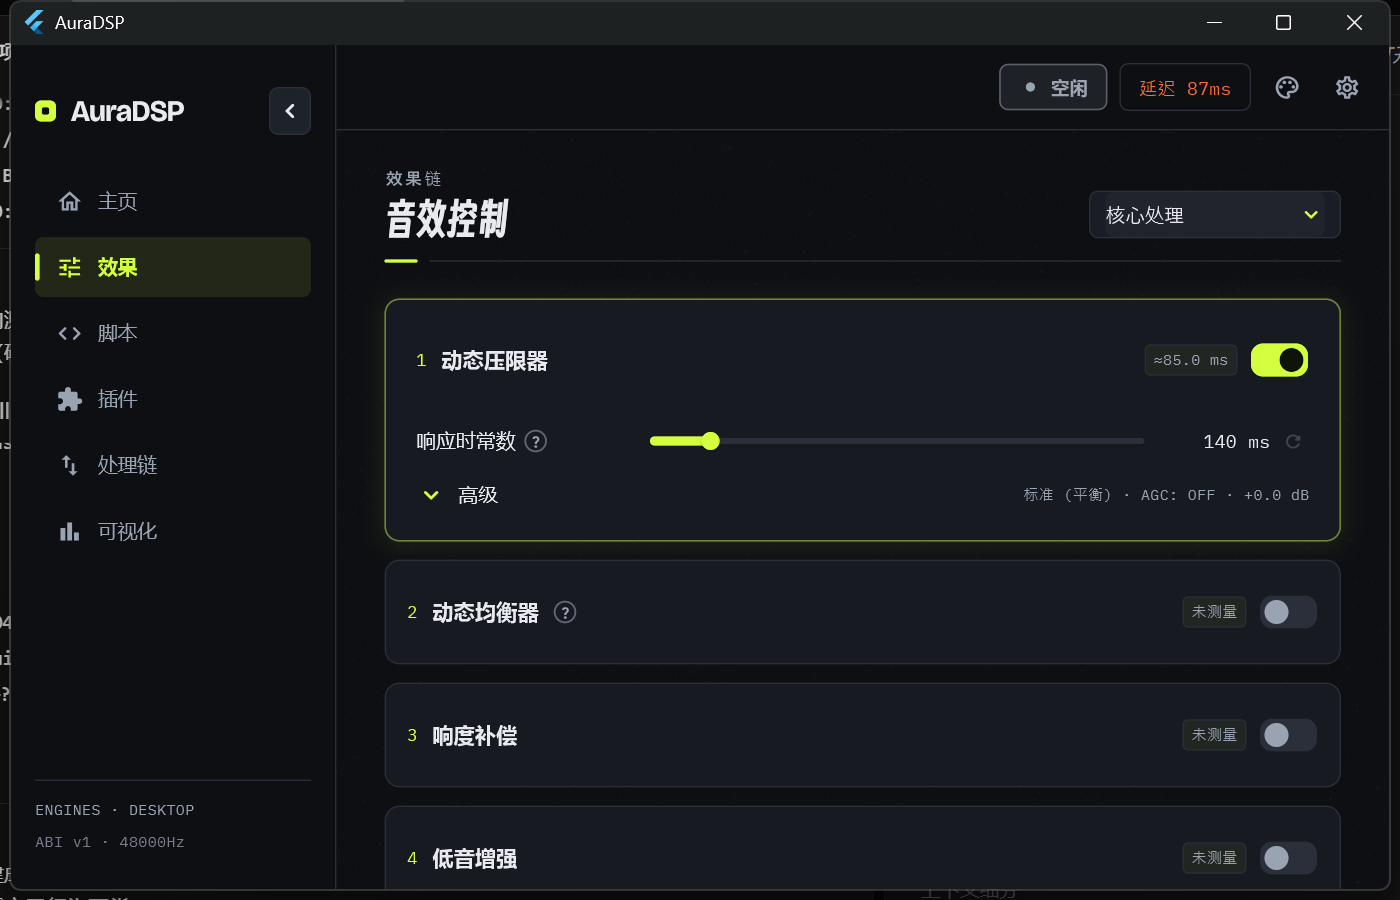
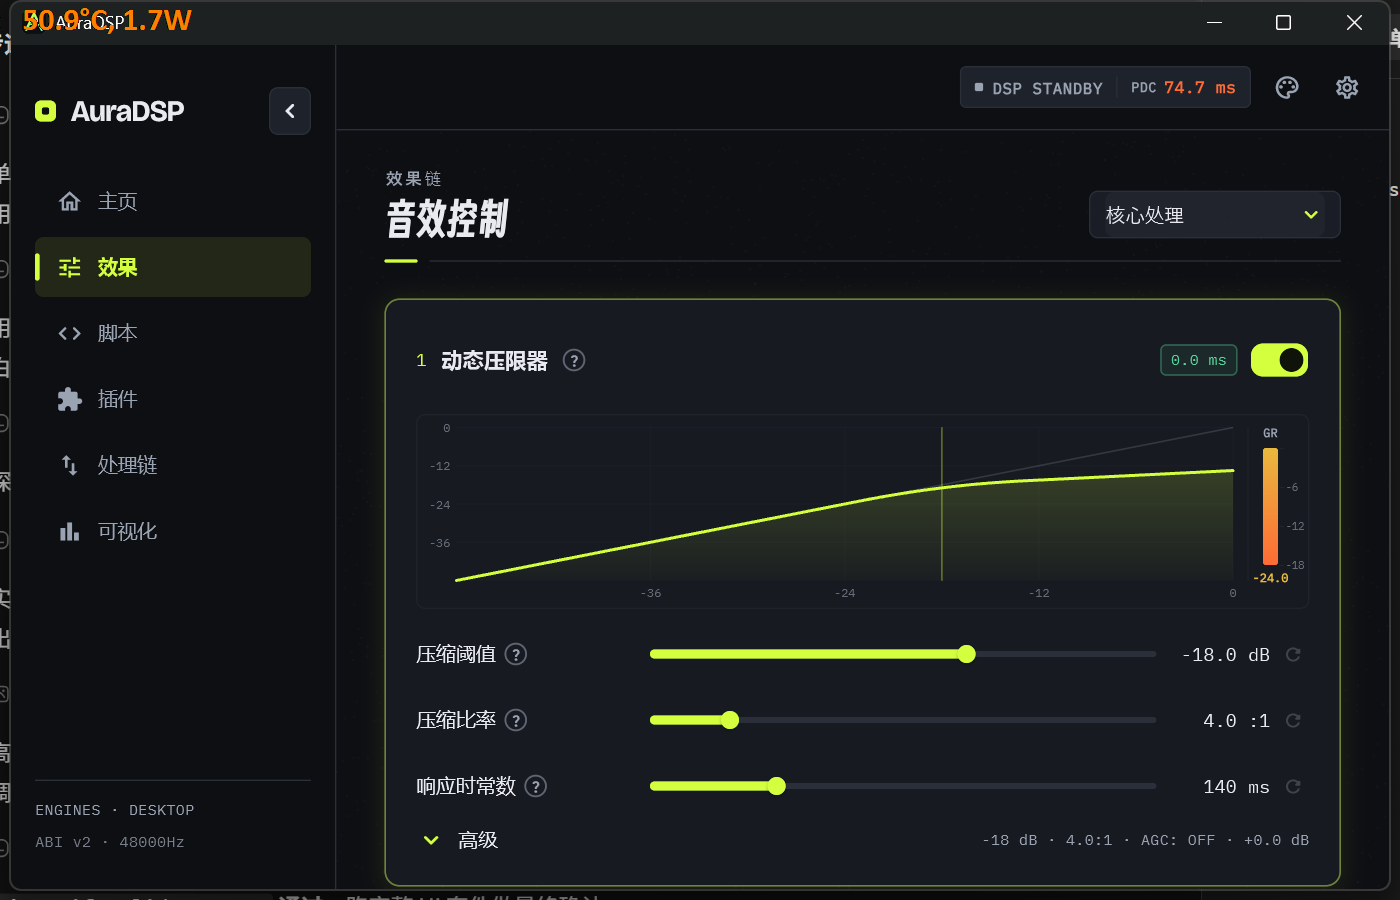
docs: 补记发包台账并更新 UI 用例留档截图

diff --git a/.ai/memory/2026-11-09.md b/.ai/memory/2026-11-09.md
@@ -46,3 +46,81 @@
   补丁编号 185 处全过。
 - **遗留**：Windows 发行包与 Linux 四件套均为 `331ee22` 时代产物，
   引擎已新增 `dsp_mc_liveprog`、参数面新增 `liveprogmc.*`，需重跑构建。
+
+## 发包：全量测试 + 重建发行包（2026-11-09 上午）
+
+### 一、构建链路的四个坑（都在 Windows 侧，非产品缺陷）
+
+1. **环境变量大小写重复键**。宿主（沙箱/CI 包装器）会让原生环境块里
+   `PATH`/`path`/`Path` 并存、每个变量还各存两份（实测 404 项 vs 干净 224 项）。
+   .NET Framework 的 `ProcessStartInfo.EnvironmentVariables` 是大小写敏感的
+   Hashtable，第二个 "path" 撞键抛 `ArgumentException('path')`，
+   发生在 MSBuild 的 `ToolTask.GetProcessStartInfo` 里 → **CL.exe 根本没被
+   拉起**，编译目标既不产出也不让上层脚本失败。新增
+   `tools/bin/win_env_sanitize.py`：读原生块（ctypes GetEnvironmentStringsW）
+   按大小写合并（PATH 取并集、其余留首次值），再用干净环境启动子进程；
+   顺带支持 PATHEXT 解析与 `.bat` 垫片转发（`flutter` 是 .bat，
+   subprocess 直接 spawn 会 FileNotFoundError）。
+2. **MSBuild 节点复用**。脏环境下启动的 worker 节点存活约 15 分钟，
+   之后即使环境已修好也会复用这些节点 → cmake **立即 exit=1 且无任何输出**，
+   表现为"构建无报错地中断、日志为空"。归一化器顺带设
+   `MSBUILDDISABLENODEREUSE=1`。
+3. **构建脚本只查文件存在就报"就绪"**。这是最坏的一层：cmake exit=1 被
+   忽略，旧产物（两天前的 DLL）被当成本次产物发出去。
+   `build_windows.ps1` 改为 `Invoke-Clean` 统一检查退出码，非零即中止；
+   另在每条外部命令前清理**本仓库构建树相关**的残留 MSBuild/cmake 进程
+   （按命令行含仓库路径判定，不误伤 VS）。
+4. **并行度与超时**。VS 生成器默认 /m:32（32 核），C++ 大 TU 同时编译
+   内存峰值可超 8GB → 进程被直接杀掉。限到 8 并发（用 `-m:8` 而非
+   `/m:8`：后者从 Git-Bash 调用会被 MSYS 路径转换吃掉斜杠，MSBuild 报 MSB1008）。
+   另注意工具后台任务超时上限是 600000ms，传更大值会被静默截断。
+
+### 二、门禁缺失的前置产物（13 项 FAIL 的真因）
+
+`test/runner.py --smoke` 有 13 个用例依赖一批**独立的小型测试程序**
+（test_plugin_chain / test_host_quarantine / test_dll_dirs / rt_drain_test /
+vaio_pump_wait_test / vm_detect / vm_pump_test / vm_parallel_test /
+apo_inspect / silence_gate_test / AuraApo）。这些目标不在发行目标集里，
+标准构建不产出 → **干净构建后跑门禁必然 FAIL 13 项**，与代码质量无关。
+已把 11 个测试目标并入 `build_windows.ps1` 的 [3b/6] 步并校验产物存在。
+
+### 三、三处 smoke 语义漂移（非回归，已用同步前引擎 A/B 排除）
+
+用**同步前的发行引擎**（c7b5e813）复跑，失败项完全一致 → 排除回归。
+真因都是「产品语义变了、用例没跟上」：
+- `g_pluginGroupMask` 出厂默认是 `0x03`（255e61f「默认只开 A1/A2」），
+  用例仍断言 `0xFF`。
+- `vb_set_param_str` 返回**在用路数**（源码注释明说"nEng 是版型槽数，
+  拿它比较会让镜像永远记不进去"），用例却拿槽位数（handles=8）比较。
+- 插件组补挂只对**有引擎实例的组**生效（`BackfillGroupsForMask` 要求
+  `PluginEngineAt(g)`）；本机只开通 2 条路由（routeState=[2,2,0,…]），
+  用例却要求 8 个组全部就绪。已改为按在线路由组断言。
+- `smoke_vm_protect` 需要**真实音频流动**：保护观测值由 RT 回调消费，
+  桥整体空闲（hotGrp=-1）时注入永远不被读取 → 守卫无从触发。
+  已加前置判定记 SKIP 而非 FAIL。
+
+### 四、UI 自动化：前台锁 + 卡片改版
+
+- **首次点击被 IDE 吃掉**。后台进程调 `SetForegroundWindow` 会被「前台锁」
+  拒绝（函数返回 FALSE 而不报错），于是应用的第一次点击落到 IDE 上——
+  UI 用例表现为"点空也不报错、断言拿到 0 像素差异"，最难查的一类假失败。
+  `ui_test_kit.ensure_foreground` 改用 AttachThreadInput 借前台线程输入队列
+  完成置前，并用 GetForegroundWindow 复核。**修完这一条，两个原本失败的
+  UI 用例直接转绿**——它们的失败根因根本不是坐标。
+- 卡片改版后锚点漂移（实测 1400x900）：动态压限器开关仍在 (1279,350)✓，
+  但「高级」折叠头挪到卡片底部 → 需向下滚 3 格进视口，此时稳定在 (460,538)；
+  主滑块「响应时常数」在 y 780..791（旧值 415..465 落在空白区）；
+  高级区**不再有「输出增益门」滑块**，改为「分频中心频率」(y≈805)。
+  另：卡片内曲线图与延迟读数是**实时动画**，全窗像素差分恒为几千像素
+  （会掩盖抽屉没开），必须只比静态带。
+
+### 五、最终结果
+
+- Windows 引擎单测：**PASS 140 / SKIP 7 / FAIL 0**（100%）
+- Linux 引擎单测（vm-linux）：**PASS 20 / SKIP 127 / FAIL 0**
+- `flutter analyze`：**No issues found!**
+- UI 自动化：**7/7 PASS**
+- 发行包：Setup 160MB（payload sha256 0c5707a5…，结构自检全过）/
+  便携 zip 130.5MB / 驱动 zip 0.1MB，SHA256SUMS.txt 3 条
+- Linux 四件套（vm-linux）：deb 14.3MB / driver-deb / AppImage 16.8MB /
+  tar.gz 17.2MB，ELF 依赖 0 缺失

diff --git a/tools/README.md b/tools/README.md
@@ -20,6 +20,7 @@
 | `bin/run_tests.py` | 统一测试执行入口桥接（转发 `test/runner.py`） |
 | `bin/push_via_api.py` | GitHub REST API 离线/受限网络推送兜底（自行组装 blob/tree/commit，sha 逐字一致） |
 | `bin/fetch_via_api.py` | `push_via_api.py` 的对偶：`github.com:443` 不通、`git fetch` 挂死时，用 Git Data API 把远端提交**逐字重建**进本地对象库（只下载真正新增的 blob/tree，重建后断言 SHA 与远端一致，对不上即中止；时区未知时按候选表试算并校验） |
+| `bin/win_env_sanitize.py` | Windows 环境变量大小写重复键归一化器：宿主（沙箱/CI 包装器）会让 `PATH`/`path`/`Path` 并存、每个变量存两份，而 .NET Framework 的 `ProcessStartInfo.EnvironmentVariables` 大小写敏感 → 第二个 "path" 撞键抛 `ArgumentException('path')`，MSBuild 的 CL.exe 根本没被拉起、编译静默产出陈旧二进制。本脚本读原生块按大小写合并（PATH 取并集、其余留首次值）后启动子进程；顺带支持 PATHEXT 解析与 `.bat` 垫片转发（`flutter` 是 .bat）、`MSBUILDDISABLENODEREUSE=1`、编译日志原始字节直写 |
 | `bin/verify_dll_copies.py` | DLL 三处同哈希单向校验（仅校验；**分发**已改由 `sync_artifacts.ps1` 负责） |
 | `windows/sync_artifacts.ps1` | 增量产物一次性同步：把引擎 DLL / 宿主 EXE / 三个桥从真相源覆盖分发到 `test/`、`app build runner`、`dist` 三处；端点缺失或单文件覆盖失败仅告警并跳过（替代手工 cp；`-WhatIf` 预演、`-PackZip` 重打包发行 zip） |
 | `windows/build_windows.ps1` | Windows 全栈构建/产物整理/资源打包流水线（根 CMake preset → 引擎/桥/Flutter → dist；根级 `tools/build_windows.ps1` 薄转发，命令不变） |
